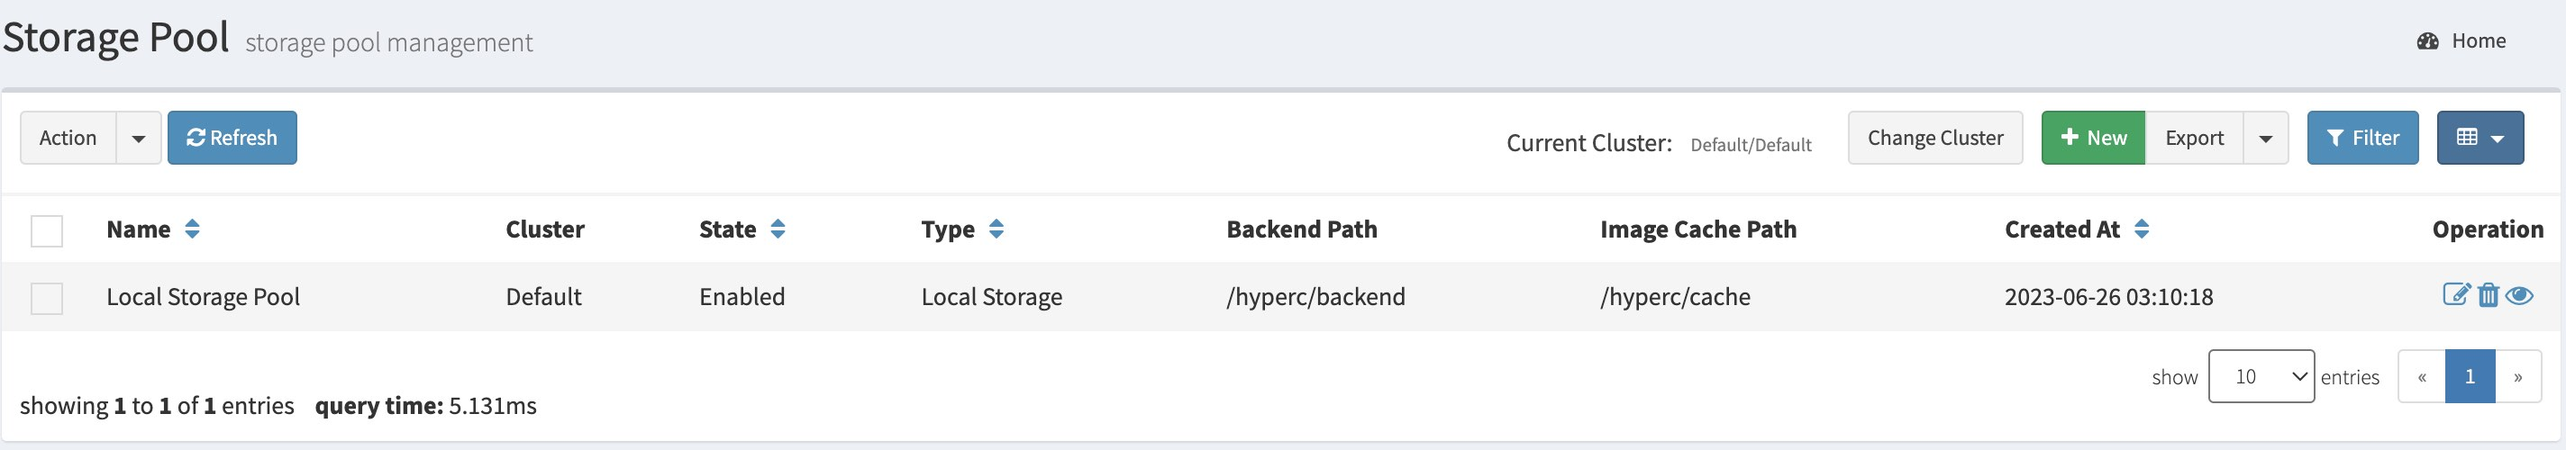
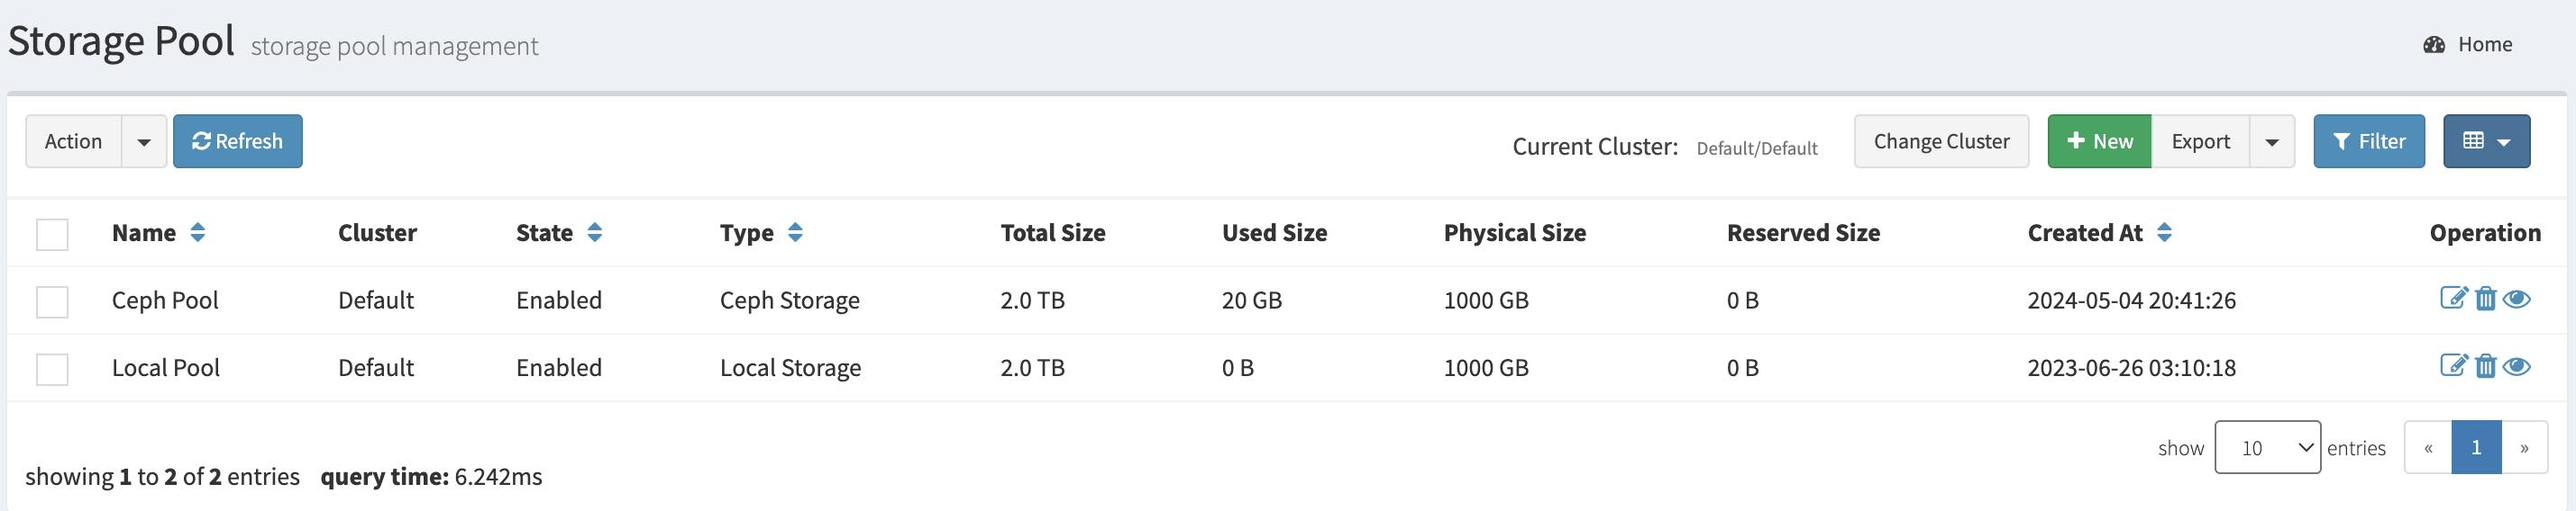
update

diff --git a/content/en/docs/Usage/WebUI/Platform/instancespec/_index.md b/content/en/docs/Usage/WebUI/Platform/instancespec/_index.md
@@ -4,15 +4,15 @@ description: This chapter introduces how to manage instance specifications in Ch
 weight: 7
 ---
 
-* Check instance specification list 
-  * Click **Filter** button, input or select filter conditions, check the filtered instance specification list
-  * Click **Columns** button，select the columns to be displayed in the list，by default it shows all columns
+## Check instance specification 
+  * Click "**Filter**" button, input or select filter conditions, check the filtered instance specification list
+  * Click "**Columns**" button，select the columns to be displayed in the list，by default it shows all columns
   
 {{% imgproc instancespec_list Fit "1000x600" %}}
 instance specification list
 {{% /imgproc %}}
 
-* Create new instance specification
+## Create new instance specification
   * Input the name of the instance specification
   * Choose a type of the instance specification
     * Shared: virtual machines share the physical resources, with this type, resources are utilized more efficiently but may cause resources conflict when the physical resources are running out
@@ -25,12 +25,13 @@ instance specification list
 create new instance specification
 {{% /imgproc %}}
 
-* Instance specification management 
-  * Click **Edit** item button in the operation dropdown menu to update an instance specification's properties
-  * Click **Delete** item button in the operation dropdown menu to delete an instance specification.
+## Instance specification management 
+  * Click "**Edit**" item button in the operation dropdown menu to update an instance specification's properties
+  * Click "**Delete**" item button in the operation dropdown menu to delete an instance specification.
 
 
-* Attach instance specification to cluster: to have the instance specification available in clusters, administator must attach it to the clusters before creating virtual machines with this instance specification. You can click the **Attach to Cluster** item button in the operation dropdown menu to attach it to clusters, one instance specification can be attached to multiple clusters.
+## Attach instance specification to cluster
+To have the instance specification available in a cluster, administator must attach it to the cluster before creating virtual machines with this instance specification. You can click the "**Attach to Cluster**" item button in the operation dropdown menu to attach it to a cluster, one instance specification can be attached to multiple clusters.
   
 {{% imgproc instancespec_relation Fit "1000x600" %}}
 Attach instance specifications to clusters

diff --git a/content/en/docs/Usage/WebUI/Platform/volumespec/_index.md b/content/en/docs/Usage/WebUI/Platform/volumespec/_index.md
@@ -4,15 +4,15 @@ description: This chapter introduces how to manage volume specifications in Chim
 weight: 9
 ---
 
-* Check volume specification list 
-  * Click **Filter** button, input or select filter conditions, check the filtered volume specification list
-  * Click **Columns** button，select the columns to be displayed in the list，by default it shows all columns
+## Check volume specifications 
+  * Click "**Filter**" button, input or select filter conditions, check the filtered volume specification list
+  * Click "**Columns**" button，select the columns to be displayed in the list，by default it shows all columns
   
 {{% imgproc volumespec_list Fit "1000x600" %}}
 volume specification list 
 {{% /imgproc %}}
 
-* Create new volume specification
+## Create new volume specification
   * Input the name of the volume specification
   * Choose a storage pool 
   * Input the minimum IOPS of the volume specification
@@ -37,14 +37,15 @@ a volume's throughput = MAX('minimum throughput', MIN('maximum throughput', size
 {{% /pageinfo %}}
 
 {{% imgproc volumespec_new Fit "1000x600" %}}
-新建云盘规格
+create new volume specification
 {{% /imgproc %}}
 
-* Volume specification management 
-  * Click **Edit** item button in the operation dropdown menu to update a volume specification's properties
-  * Click **Delete** item button in the operation dropdown menu to delete a volume specification.
+## Volume specification management 
+  * Click "**Edit**" item button in the operation dropdown menu to update a volume specification's properties
+  * Click "**Delete**" item button in the operation dropdown menu to delete a volume specification.
 
-* Attach volume specification to cluster: to have the volume specification available in clusters, administator must attach it to the clusters before creating virtual volumes with this specification. You can click the **Attach to Cluster** item button in the operation dropdown menu to attach it to clusters, one volume specification can be attached to multiple clusters.
+## Attach volume specification to a cluster 
+To have the volume specification available in a cluster, administator must attach it to the cluster before creating virtual volumes with this specification. You can click the "**Attach to Cluster**" item button in the operation dropdown menu to attach it to a cluster, one volume specification can be attached to multiple clusters.
 
 {{% imgproc volumespec_relation Fit "1000x600" %}}
 Attach volume specifications to clusters

diff --git a/content/en/docs/Usage/WebUI/Platform/storagepool/_index.md b/content/en/docs/Usage/WebUI/Platform/storagepool/_index.md
@@ -4,15 +4,15 @@ description: This chapter introduces how to manage storage pools in ChimeStack
 weight: 8
 ---
 
-* Check storage pool list
-  * Click **Filter** button, input or select filter conditions, check the filtered storage pool list.
-  * Click **Columns** button, select the columns to be displayed in the list, by default it shows all columns
+## Check storage pools
+  * Click "**Filter**" button, input or select filter conditions, check the filtered storage pool list.
+  * Click "**Columns**" button, select the columns to be displayed in the list, by default it shows all columns
 
 {{% imgproc pool_list Fit "1000x600" %}}
 storage pool list
 {{% /imgproc %}}
 
-* Create new storage pool
+## Create new storage pool
   * Input the name of the storage pool 
   * Choose the type of the storage pool
     * Local Storage: the local persistent disks in the computing nodes
@@ -20,6 +20,11 @@ storage pool list
   * (Only for local storage) Input the backend path, which is for storing volumes' data, it must be an existing directory in all the nodes of the cluster. 
   * (Only for local storage) Input the image cache path, which is for storing the image caches, it must be an existing directory in all the nodes of the cluster. 
   * Input the size ratio, which multiplies the physical size as the allocatable size of the storage pool.
+  * (Only for Ceph storage) Ceph Monitor's address
+  * (Only for Ceph storage) Ceph Monitor's port
+  * (Only for Ceph storage) Ceph's storage pool name
+  * (Only for Ceph storage) Ceph's access username
+  * (Only for Ceph storage) Ceph's access key
   * Input the physical size(GiB)
   * Input the reserved size(GiB), which is not allocatable to virtual volumes. 
   * (Optional) Input description
@@ -31,6 +36,6 @@ create storage pool (local)
 create storage pool (ceph)
 {{% /imgproc %}}
 
-* Storage pool management
-  * Click **Edit** item button in the operation dropdown menu to edit a storage pool's properties.
-  * Click **Delete** item button in the operation dropdown menu to delete a storage pool
+## Storage pool management
+  * Click "**Edit**" item button in the operation dropdown menu to edit a storage pool's properties.
+  * Click "**Delete**" item button in the operation dropdown menu to delete a storage pool

diff --git a/content/en/docs/Usage/WebUI/Platform/publicimage/_index.md b/content/en/docs/Usage/WebUI/Platform/publicimage/_index.md
@@ -4,23 +4,24 @@ description: This chapter introduces how to manage public images in ChimeStack
 weight: 10
 ---
 
-* Check image bucket list
-  * Click **Filter** button, input or select filter conditions, check the filtered image bucket list. Each user has a dedicated image bucket.
-  * Click **Columns** button，select the columns to be displayed in the list，by default it shows all columns
+## Check image buckets
+  * Click "**Filter**" button, input or select filter conditions, check the filtered image bucket list. Each user has a dedicated image bucket.
+  * Click "**Columns**" button，select the columns to be displayed in the list，by default it shows all columns
 
 {{% imgproc bucket_list Fit "1000x600" %}}
 image bucket list
 {{% /imgproc %}}
 
-* Check image list
-  * Click **Filter** button, input or select filter conditions, check the filtered image list. 
-  * Click **Columns** button，select the columns to be displayed in the list，by default it shows all columns
+## Check images
+  * Click "**Filter**" button, input or select filter conditions, check the filtered image list. 
+  * Click "**Columns**" button，select the columns to be displayed in the list，by default it shows all columns
   
 {{% imgproc image_list Fit "1000x600" %}}
 image list
 {{% /imgproc %}}
 
-* Add a public image, input or choose the following information: 
+## Add a public image
+Input or choose the following information: 
   * Input the name of the image, which is restricted to 2～64 characters.
   * Choose the file format of the image from the dropdown menu, which contains "raw", "qcow2" and "iso" file format
   * Choose the operation system's type from the dropdown menu. 
@@ -31,5 +32,5 @@ image list
 
   
 {{% imgproc image_new Fit "1000x600" %}}
-create new image
+create new piblic image
 {{% /imgproc %}}

diff --git a/content/en/docs/Usage/WebUI/Platform/subnet/_index.md b/content/en/docs/Usage/WebUI/Platform/subnet/_index.md
@@ -4,25 +4,26 @@ description: This chapter introduces how to manage subnets in ChimeStack
 weight: 6
 ---
 
-* Check subnet list
-  * Click **Filter** button, input or select filter conditions, check the filtered subnet list.
-  * Click **Columns** button, select the columns to be displayed in the list, by default it shows all columns
+## Check subnet
+  * Click "**Filter**" button, input or select filter conditions, check the filtered subnet list.
+  * Click "**Columns**" button, select the columns to be displayed in the list, by default it shows all columns
   
 {{% imgproc subnet_list Fit "1000x600" %}}
 subnet list 
 {{% /imgproc %}}
 
-* Create new subnet
+## Create new subnet
   * Input the name of the subnet
   * Choose a network which the subnet belongs to
-  * Input the CIDR of the subnet
+  * Input the CIDR
   * (Optional) Input the gateway of the subnet（if omit, it will use the first IP address from the CIDR's IP range as the gateway）
+  * Input the reserved IP addresses, use commas to separate multiple addresses，and you can input IP ranges, such as 192.168.231.101-192.168.231.200
   * (Optional) Input description
   
 {{% imgproc subnet_new Fit "1000x600" %}}
 create subnet
 {{% /imgproc %}}
 
-* Subnet management 
-  * Click **Edit** item button in the operation dropdown menu to update a subnet's properties
-  * Click **Delete** item button in the operation dropdown menu to delete a subnet
+## Subnet management 
+  * Click "**Edit**" item button in the operation dropdown menu to update a subnet's properties
+  * Click "**Delete**" item button in the operation dropdown menu to delete a subnet

diff --git a/content/zh/docs/Usage/WebUI/Platform/subnet/_index.md b/content/zh/docs/Usage/WebUI/Platform/subnet/_index.md
@@ -16,8 +16,8 @@ weight: 6
   * 输入子网名称
   * 选择网络
   * 输入CIDR
-  * 输入保留IP地址，多个地址用逗号分隔，支持地址段输入，例如192.168.231.101-192.168.231.200
   * 输入网关（如果不输入，默认为CIDR对应网络IP段的第一个IP）
+  * 输入保留IP地址，多个地址用逗号分隔，支持地址段输入，例如192.168.231.101-192.168.231.200
   * (可选)描述信息
   
 {{% imgproc subnet_new Fit "1000x600" %}}
